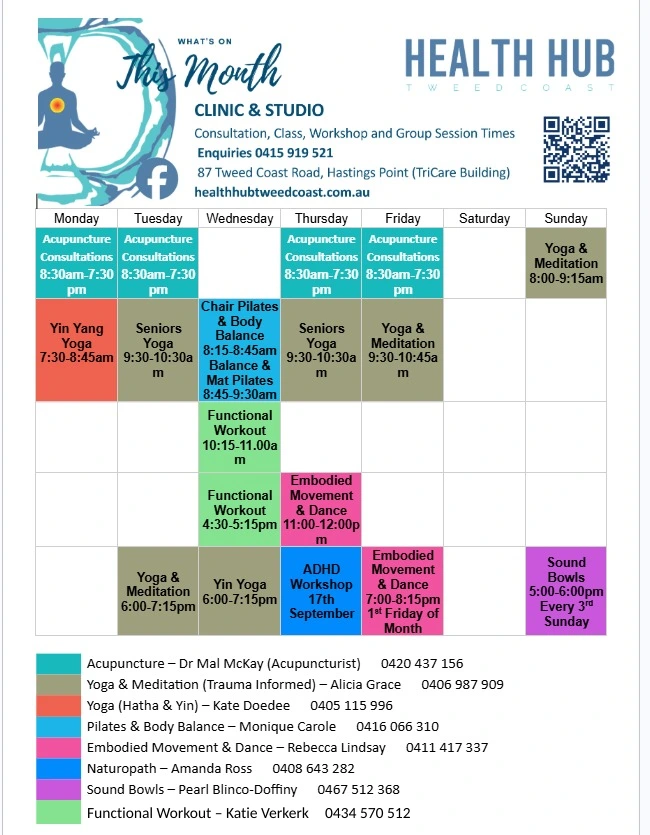
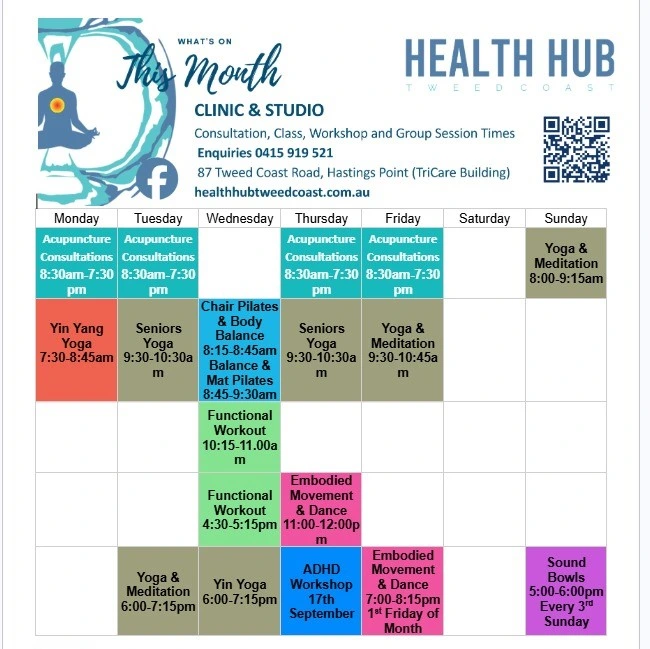
Timetable: header-and-table crop of the flyer
Third cut is the right one — the full flyer ran too tall next to the other
event images and the table-only crop too short; the client's header+table
version is near-square, matching the rest.

diff --git a/src/content/events/health-hub-studio-time-table.md b/src/content/events/health-hub-studio-time-table.md
@@ -4,10 +4,12 @@ order: 1
 category: "community"
 schedule: "All classes, all week"
 summary: "The full weekly studio timetable — every class running at the Hub, at a glance."
-# The client's September flyer. A timetable graphic sits directly above the
-# live table on this page, so it must always be rebuilt from the same schedule
-# as timetable/weekly.yml — the previous one was removed for contradicting it.
-# This one was checked against weekly.yml session-for-session (Aug 2026).
+# The client's September flyer, cropped by the client to header + table (the
+# legend trimmed off — the full flyer ran too tall, a table-only crop too
+# short). A timetable graphic sits directly above the live table on this page,
+# so it must always show the same schedule as timetable/weekly.yml — an
+# earlier graphic was removed for contradicting it. Checked session-for-session
+# against weekly.yml (Aug 2026).
 image: "/images/events/health-hub-studio-time-table.webp"
 location: "Health Hub Tweed Coast, Hastings Point"
 active: true
